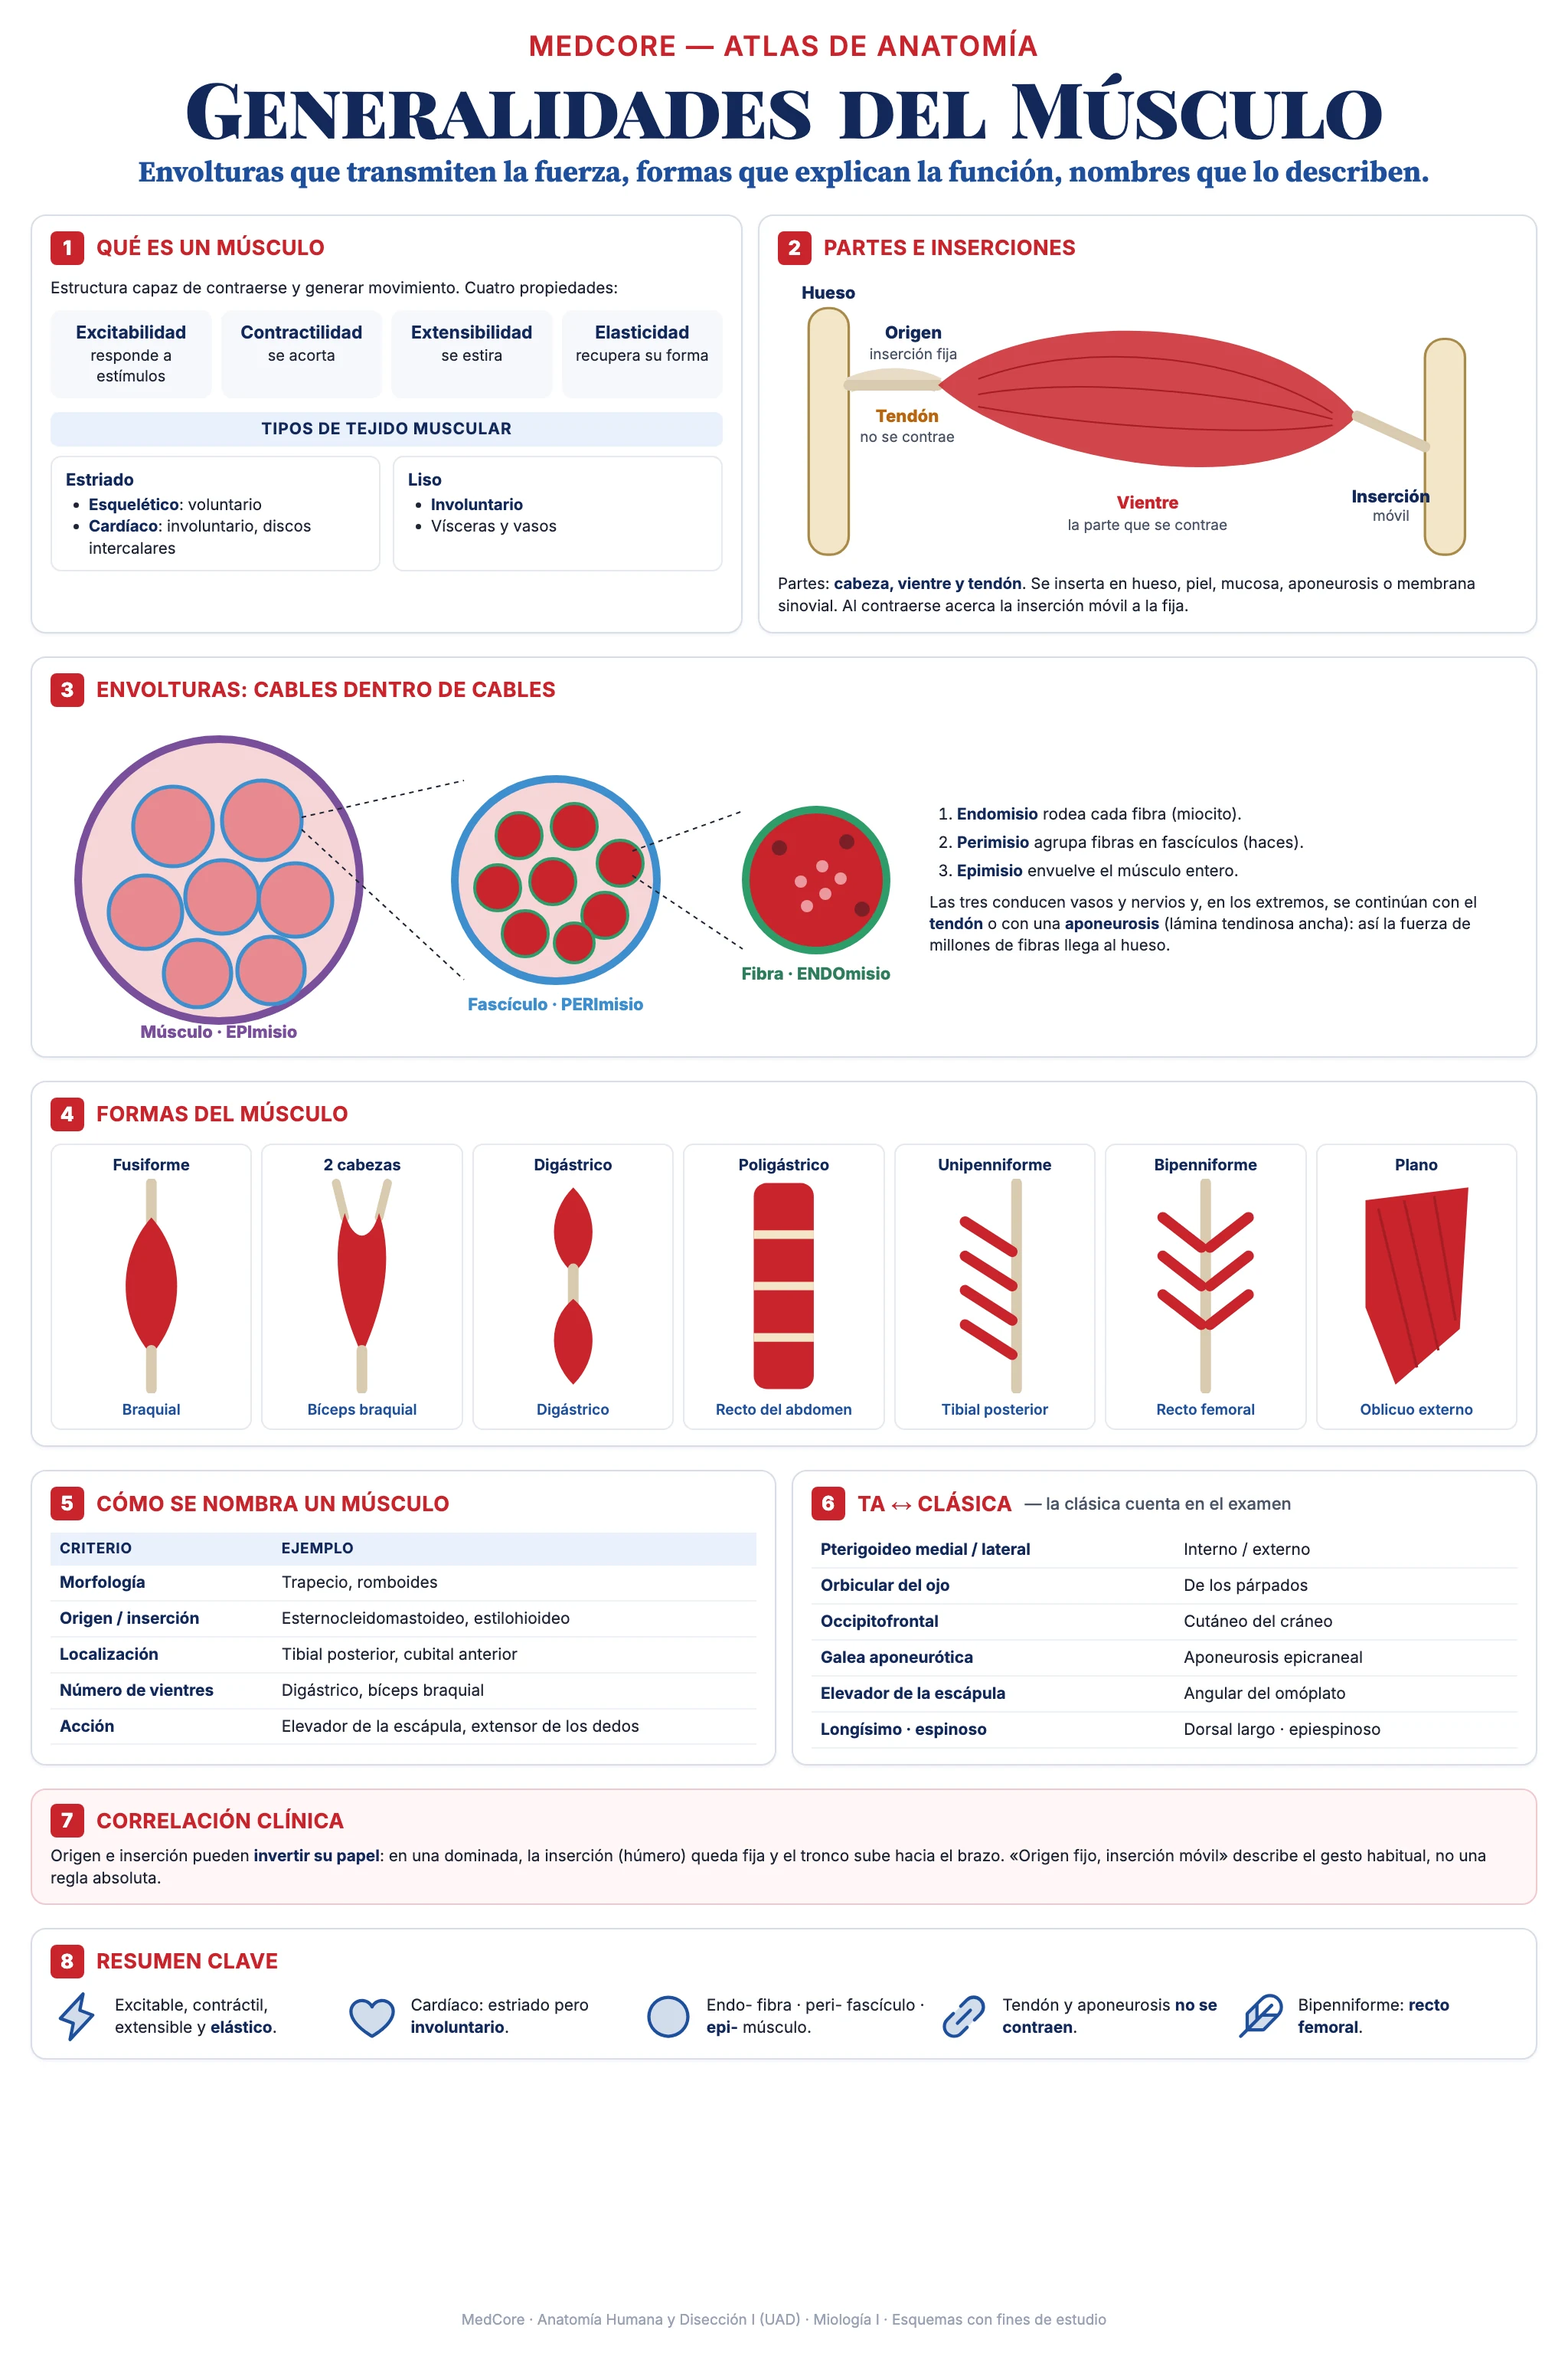
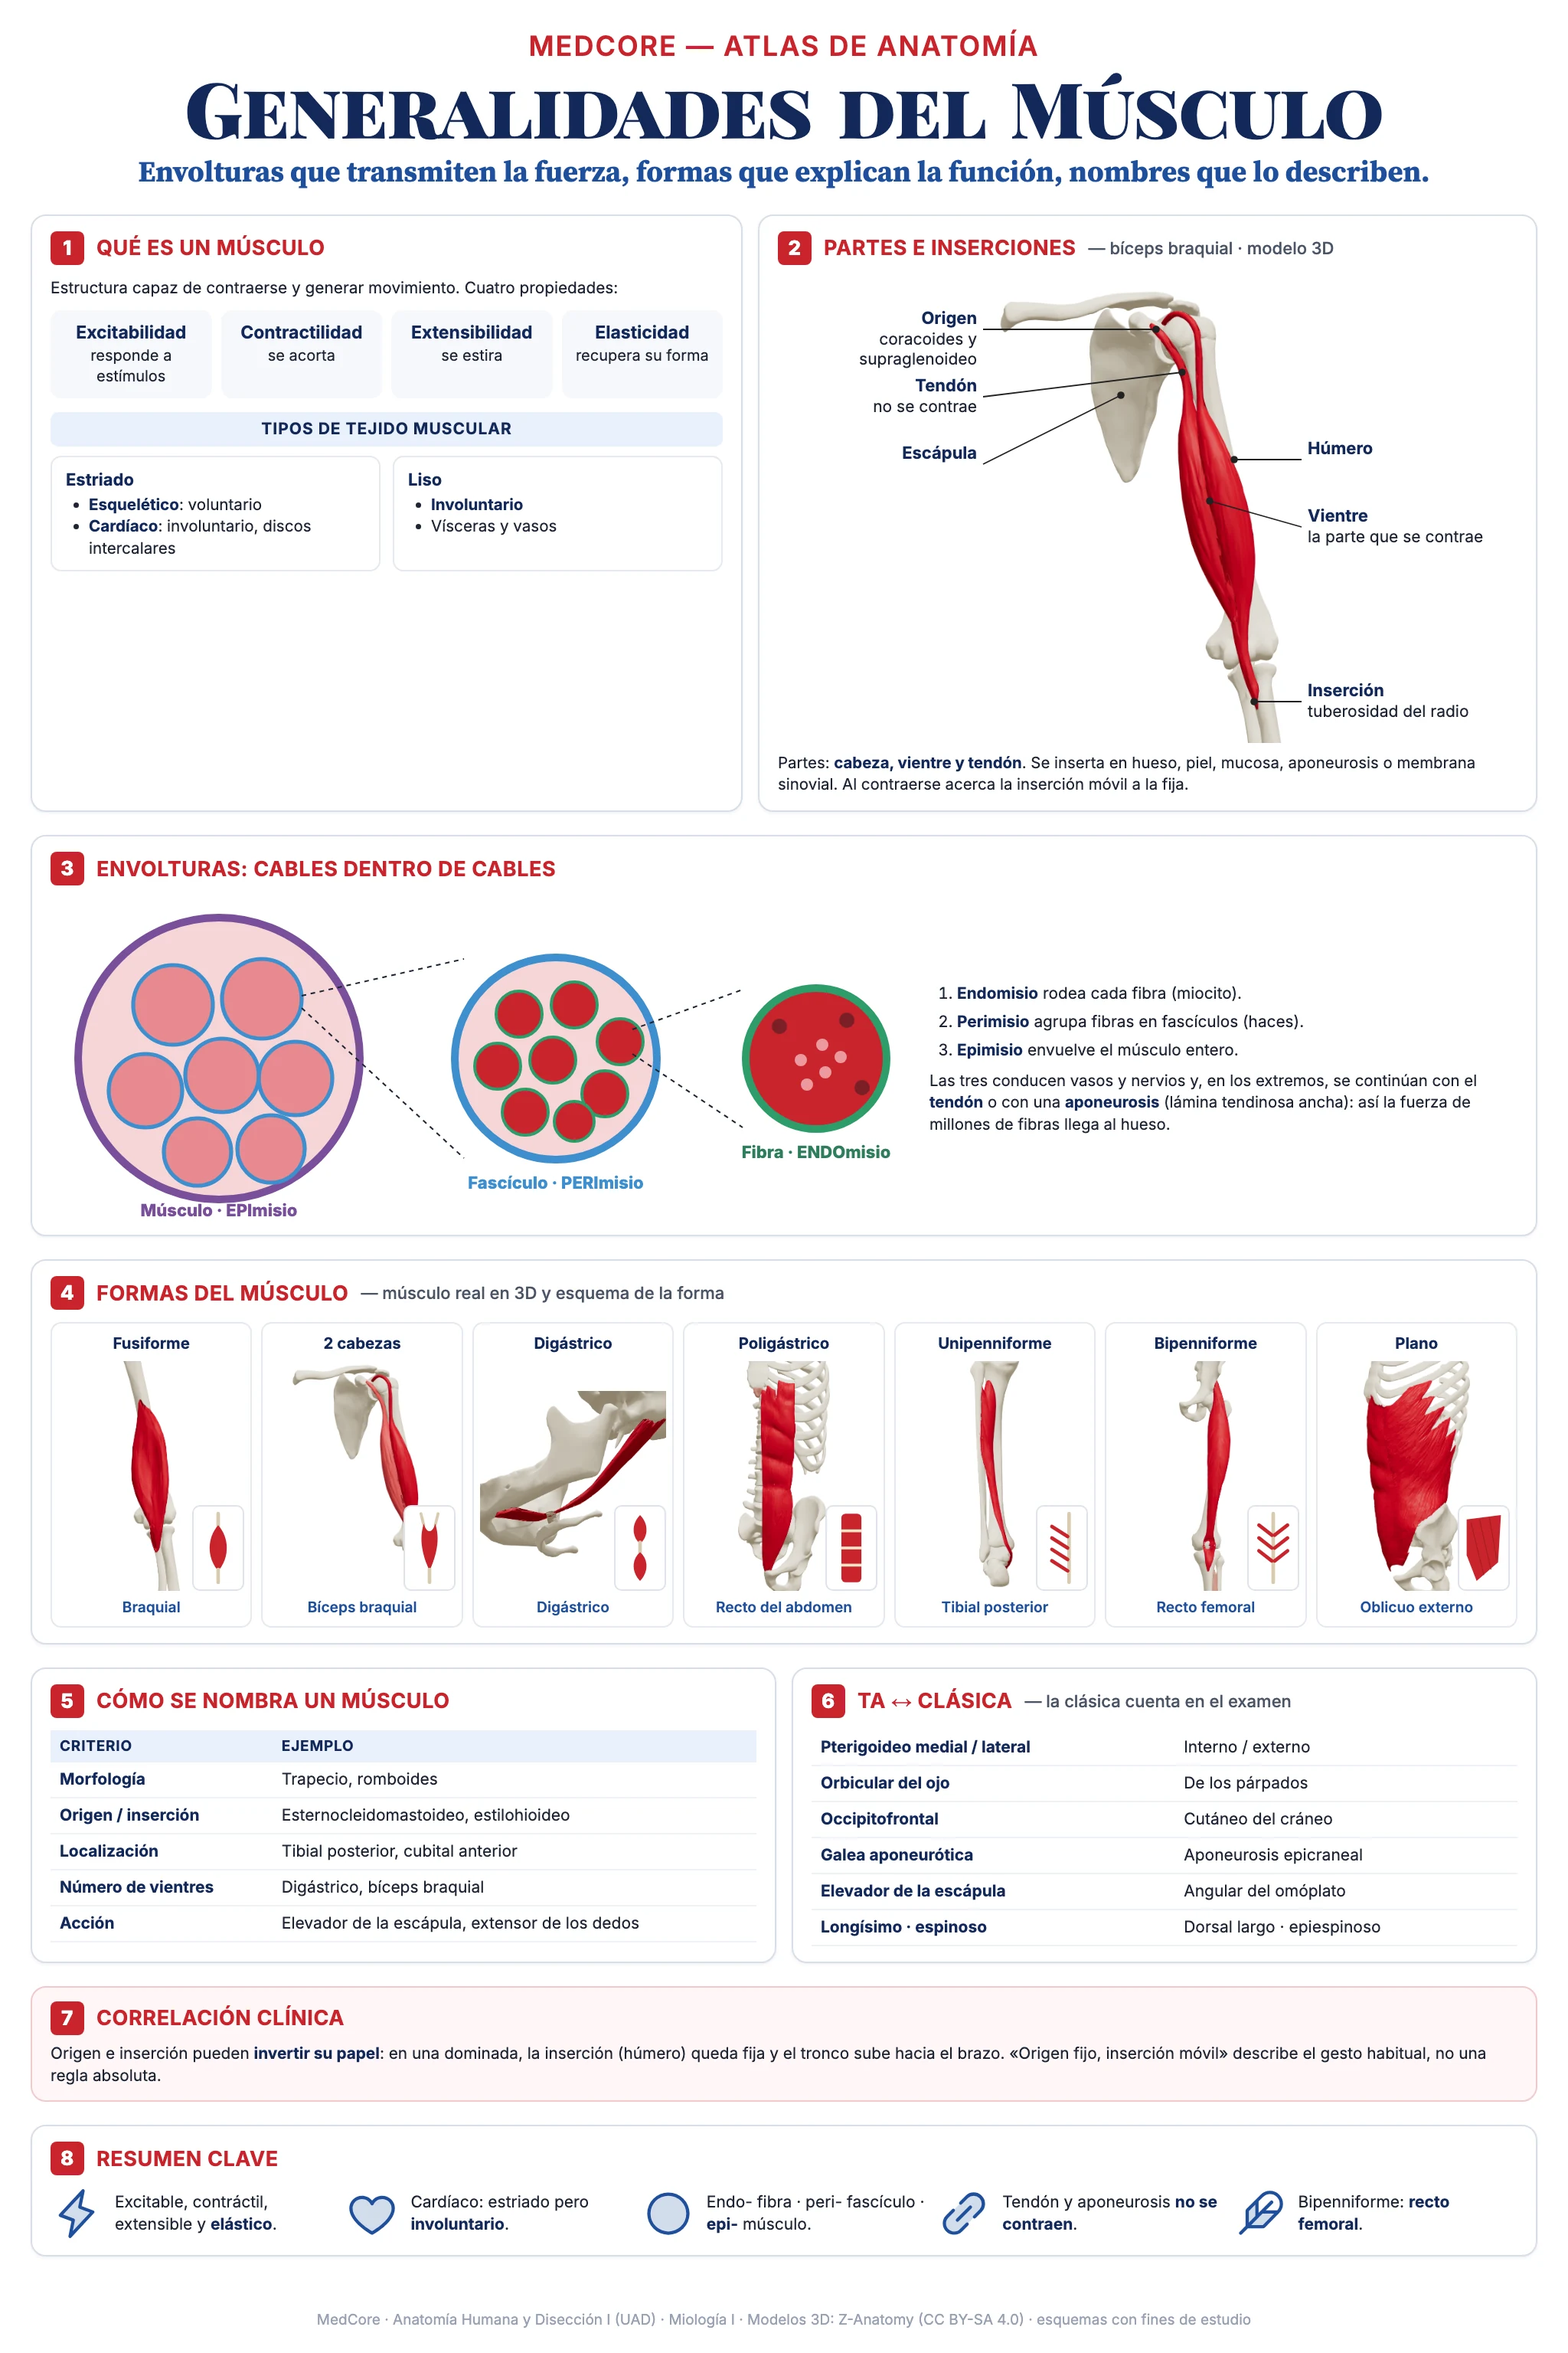
feat(atlas): generalidades del músculo con músculos reales en 3D
Partes e inserciones sobre el bíceps braquial real (origen, tendón,
vientre, inserción). Las siete formas muestran su músculo de ejemplo
renderizado de Z-Anatomy (braquial, bíceps, digástrico, recto del abdomen,
tibial posterior, recto femoral y oblicuo externo), con el esquema de la
forma como recuadro.

diff --git a/docs/atlas-posters/membrana/src/anat-miologia.html b/docs/atlas-posters/membrana/src/anat-miologia.html
@@ -1,5 +1,9 @@
 <!DOCTYPE html><html lang="es"><head><meta charset="utf-8"><link rel="stylesheet" href="membrana.css">
 <style>
+.frm { position: relative; height: 150px; margin: 4px 0 4px; }
+.frm img { height: 150px; max-width: 100%; object-fit: contain; display: block; margin: 0 auto; }
+.frm .sv { position: absolute; right: 0; bottom: 0; width: 34px; height: 56px; background: #fff; border: 1px solid #dfe3eb; border-radius: 5px; padding: 2px; }
+.frm .sv svg { width: 100% !important; height: 100% !important; max-height: none !important; margin: 0 !important; display: block; }
 svg text { font-family: 'Inter'; }
 .page { gap: 15px; }
 .two { display: grid; grid-template-columns: 1fr 1fr; gap: 8px; }
@@ -39,27 +43,8 @@ svg text { font-family: 'Inter'; }
     </div>
   </section>
   <section class="panel" style="flex:1.1">
-    <div class="ph"><span class="n">2</span>Partes e inserciones</div>
-    <svg viewBox="0 0 480 190" style="width:100%;display:block">
-      <g>
-        <rect x="20" y="20" width="26" height="160" rx="12" fill="#f3e6c8" stroke="#a88a4a" stroke-width="1.6"/>
-        <rect x="420" y="40" width="26" height="140" rx="12" fill="#f3e6c8" stroke="#a88a4a" stroke-width="1.6"/>
-        <path d="M46 70 C 70 60, 92 64, 104 70" stroke="#e8dcc8" stroke-width="10" fill="none"/>
-        <path d="M46 70 L104 70" stroke="#d9cbb0" stroke-width="7" stroke-linecap="round"/>
-        <path d="M104 70 C 160 20, 320 20, 376 90 C 320 150, 160 120, 104 70 Z" fill="#c8242c" opacity=".85"/>
-        <g stroke="#a51d24" stroke-width="1" fill="none"><path d="M130 66 C 200 40, 300 50, 360 88"/><path d="M130 76 C 200 64, 300 76, 360 92"/><path d="M130 84 C 200 96, 300 104, 360 96"/></g>
-        <path d="M376 90 L420 110" stroke="#d9cbb0" stroke-width="7" stroke-linecap="round"/>
-      </g>
-      <g font-size="11" text-anchor="middle">
-        <text x="33" y="14" font-weight="800" fill="#13295b">Hueso</text>
-        <text x="84" y="94" font-weight="800" fill="#b8650f">Tendón</text>
-        <text x="84" y="107" font-size="9.5" fill="#4b5567">no se contrae</text>
-        <text x="240" y="150" font-weight="800" fill="#c8242c">Vientre</text>
-        <text x="240" y="164" font-size="9.5" fill="#4b5567">la parte que se contrae</text>
-        <text x="88" y="40" font-weight="800" fill="#13295b">Origen</text><text x="88" y="53" font-size="9.5" fill="#4b5567">inserción fija</text>
-        <text x="398" y="146" font-weight="800" fill="#13295b">Inserción</text><text x="398" y="158" font-size="9.5" fill="#4b5567">móvil</text>
-      </g>
-    </svg>
+    <div class="ph"><span class="n">2</span>Partes e inserciones <small>— bíceps braquial · modelo 3D</small></div>
+    <script type="auto3d">{"img": "ana3d/mf-partes.png", "height": 300, "cw": 530, "L": 140, "gap": 44, "labels": {"ori": ["Origen", "coracoides y supraglenoideo", [480, 135]], "ten": ["Tendón", "no se contrae", [560, 260]], "vie": ["Vientre", "la parte que se contrae", [640, 640]], "ins": ["Inserción", "tuberosidad del radio", [770, 1230]], "hu": ["Húmero", "", [712, 520]], "esc": ["Escápula", "", [380, 330]]}, "side": {"ori": "left", "ten": "left", "esc": "left", "vie": "right", "ins": "right", "hu": "right"}}</script>
     <p style="font-size:10.2px;margin:2px 0 0">Partes: <b>cabeza, vientre y tendón</b>. Se inserta en hueso, piel, mucosa, aponeurosis o membrana sinovial. Al contraerse acerca la inserción móvil a la fija.</p>
   </section>
 </div>
@@ -104,22 +89,22 @@ svg text { font-family: 'Inter'; }
 </section>
 
 <section class="panel">
-  <div class="ph"><span class="n">4</span>Formas del músculo</div>
+  <div class="ph"><span class="n">4</span>Formas del músculo <small>— músculo real en 3D y esquema de la forma</small></div>
   <div class="forms">
     <div class="mini"><p class="t">Fusiforme</p>
-      <svg viewBox="0 0 60 100"><line x1="30" y1="2" x2="30" y2="20" stroke="#d9cbb0" stroke-width="5" stroke-linecap="round"/><path d="M30 18 C 46 36, 46 64, 30 82 C 14 64, 14 36, 30 18 Z" fill="#c8242c"/><line x1="30" y1="80" x2="30" y2="98" stroke="#d9cbb0" stroke-width="5" stroke-linecap="round"/></svg><p class="d">Braquial</p></div>
+      <div class="frm"><img src="{{img:ana3d/mf-fusi.png}}"><div class="sv"><svg viewBox="0 0 60 100"><line x1="30" y1="2" x2="30" y2="20" stroke="#d9cbb0" stroke-width="5" stroke-linecap="round"/><path d="M30 18 C 46 36, 46 64, 30 82 C 14 64, 14 36, 30 18 Z" fill="#c8242c"/><line x1="30" y1="80" x2="30" y2="98" stroke="#d9cbb0" stroke-width="5" stroke-linecap="round"/></svg></div></div><p class="d">Braquial</p></div>
     <div class="mini"><p class="t">2 cabezas</p>
-      <svg viewBox="0 0 60 100"><line x1="18" y1="2" x2="22" y2="18" stroke="#d9cbb0" stroke-width="4" stroke-linecap="round"/><line x1="42" y1="2" x2="38" y2="18" stroke="#d9cbb0" stroke-width="4" stroke-linecap="round"/><path d="M22 16 C 14 40, 22 64, 30 82 C 38 64, 46 40, 38 16 C 34 30, 26 30, 22 16 Z" fill="#c8242c"/><line x1="30" y1="80" x2="30" y2="98" stroke="#d9cbb0" stroke-width="5" stroke-linecap="round"/></svg><p class="d">Bíceps braquial</p></div>
+      <div class="frm"><img src="{{img:ana3d/mf-bic.png}}"><div class="sv"><svg viewBox="0 0 60 100"><line x1="18" y1="2" x2="22" y2="18" stroke="#d9cbb0" stroke-width="4" stroke-linecap="round"/><line x1="42" y1="2" x2="38" y2="18" stroke="#d9cbb0" stroke-width="4" stroke-linecap="round"/><path d="M22 16 C 14 40, 22 64, 30 82 C 38 64, 46 40, 38 16 C 34 30, 26 30, 22 16 Z" fill="#c8242c"/><line x1="30" y1="80" x2="30" y2="98" stroke="#d9cbb0" stroke-width="5" stroke-linecap="round"/></svg></div></div><p class="d">Bíceps braquial</p></div>
     <div class="mini"><p class="t">Digástrico</p>
-      <svg viewBox="0 0 60 100"><path d="M30 4 C 42 16, 42 34, 30 44 C 18 34, 18 16, 30 4 Z" fill="#c8242c"/><line x1="30" y1="42" x2="30" y2="58" stroke="#d9cbb0" stroke-width="5" stroke-linecap="round"/><path d="M30 56 C 42 66, 42 84, 30 96 C 18 84, 18 66, 30 56 Z" fill="#c8242c"/></svg><p class="d">Digástrico</p></div>
+      <div class="frm"><img src="{{img:ana3d/mf-dig.png}}"><div class="sv"><svg viewBox="0 0 60 100"><path d="M30 4 C 42 16, 42 34, 30 44 C 18 34, 18 16, 30 4 Z" fill="#c8242c"/><line x1="30" y1="42" x2="30" y2="58" stroke="#d9cbb0" stroke-width="5" stroke-linecap="round"/><path d="M30 56 C 42 66, 42 84, 30 96 C 18 84, 18 66, 30 56 Z" fill="#c8242c"/></svg></div></div><p class="d">Digástrico</p></div>
     <div class="mini"><p class="t">Poligástrico</p>
-      <svg viewBox="0 0 60 100"><rect x="16" y="2" width="28" height="96" rx="6" fill="#c8242c"/><g stroke="#f3e6c8" stroke-width="4"><line x1="16" y1="26" x2="44" y2="26"/><line x1="16" y1="50" x2="44" y2="50"/><line x1="16" y1="74" x2="44" y2="74"/></g></svg><p class="d">Recto del abdomen</p></div>
+      <div class="frm"><img src="{{img:ana3d/mf-poli.png}}"><div class="sv"><svg viewBox="0 0 60 100"><rect x="16" y="2" width="28" height="96" rx="6" fill="#c8242c"/><g stroke="#f3e6c8" stroke-width="4"><line x1="16" y1="26" x2="44" y2="26"/><line x1="16" y1="50" x2="44" y2="50"/><line x1="16" y1="74" x2="44" y2="74"/></g></svg></div></div><p class="d">Recto del abdomen</p></div>
     <div class="mini"><p class="t">Unipenniforme</p>
-      <svg viewBox="0 0 60 100"><line x1="40" y1="2" x2="40" y2="98" stroke="#d9cbb0" stroke-width="5" stroke-linecap="round"/><g stroke="#c8242c" stroke-width="5" stroke-linecap="round"><line x1="16" y1="20" x2="38" y2="34"/><line x1="16" y1="36" x2="38" y2="50"/><line x1="16" y1="52" x2="38" y2="66"/><line x1="16" y1="68" x2="38" y2="82"/></g></svg><p class="d">Tibial posterior</p></div>
+      <div class="frm"><img src="{{img:ana3d/mf-uni.png}}"><div class="sv"><svg viewBox="0 0 60 100"><line x1="40" y1="2" x2="40" y2="98" stroke="#d9cbb0" stroke-width="5" stroke-linecap="round"/><g stroke="#c8242c" stroke-width="5" stroke-linecap="round"><line x1="16" y1="20" x2="38" y2="34"/><line x1="16" y1="36" x2="38" y2="50"/><line x1="16" y1="52" x2="38" y2="66"/><line x1="16" y1="68" x2="38" y2="82"/></g></svg></div></div><p class="d">Tibial posterior</p></div>
     <div class="mini"><p class="t">Bipenniforme</p>
-      <svg viewBox="0 0 60 100"><line x1="30" y1="2" x2="30" y2="98" stroke="#d9cbb0" stroke-width="5" stroke-linecap="round"/><g stroke="#c8242c" stroke-width="5" stroke-linecap="round"><line x1="10" y1="18" x2="28" y2="32"/><line x1="10" y1="36" x2="28" y2="50"/><line x1="10" y1="54" x2="28" y2="68"/><line x1="50" y1="18" x2="32" y2="32"/><line x1="50" y1="36" x2="32" y2="50"/><line x1="50" y1="54" x2="32" y2="68"/></g></svg><p class="d">Recto femoral</p></div>
+      <div class="frm"><img src="{{img:ana3d/mf-bip.png}}"><div class="sv"><svg viewBox="0 0 60 100"><line x1="30" y1="2" x2="30" y2="98" stroke="#d9cbb0" stroke-width="5" stroke-linecap="round"/><g stroke="#c8242c" stroke-width="5" stroke-linecap="round"><line x1="10" y1="18" x2="28" y2="32"/><line x1="10" y1="36" x2="28" y2="50"/><line x1="10" y1="54" x2="28" y2="68"/><line x1="50" y1="18" x2="32" y2="32"/><line x1="50" y1="36" x2="32" y2="50"/><line x1="50" y1="54" x2="32" y2="68"/></g></svg></div></div><p class="d">Recto femoral</p></div>
     <div class="mini"><p class="t">Plano</p>
-      <svg viewBox="0 0 60 100"><path d="M6 10 L54 4 L50 70 L20 96 L6 60 Z" fill="#c8242c"/><g stroke="#a51d24" stroke-width="1.2"><line x1="12" y1="14" x2="30" y2="88"/><line x1="24" y1="10" x2="40" y2="80"/><line x1="38" y1="8" x2="48" y2="66"/></g></svg><p class="d">Oblicuo externo</p></div>
+      <div class="frm"><img src="{{img:ana3d/mf-plano.png}}"><div class="sv"><svg viewBox="0 0 60 100"><path d="M6 10 L54 4 L50 70 L20 96 L6 60 Z" fill="#c8242c"/><g stroke="#a51d24" stroke-width="1.2"><line x1="12" y1="14" x2="30" y2="88"/><line x1="24" y1="10" x2="40" y2="80"/><line x1="38" y1="8" x2="48" y2="66"/></g></svg></div></div><p class="d">Oblicuo externo</p></div>
   </div>
 </section>
 
@@ -164,5 +149,5 @@ svg text { font-family: 'Inter'; }
   </div>
 </section>
 
-<p class="foot">MedCore · Anatomía Humana y Disección I (UAD) · Miología I · Esquemas con fines de estudio</p>
+<p class="foot">MedCore · Anatomía Humana y Disección I (UAD) · Miología I · Modelos 3D: Z-Anatomy (CC BY-SA 4.0) · esquemas con fines de estudio</p>
 </div></body></html>
